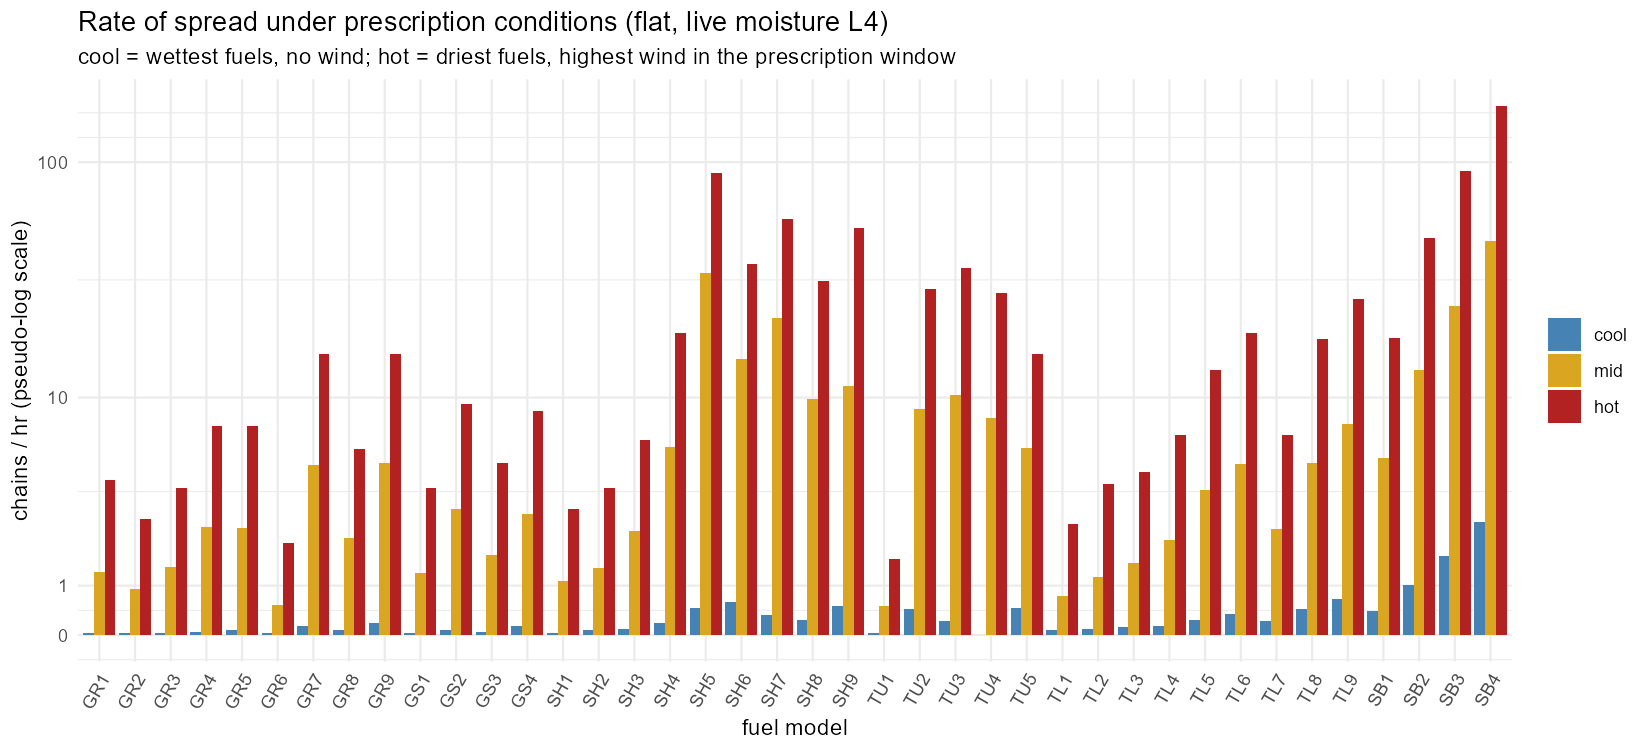
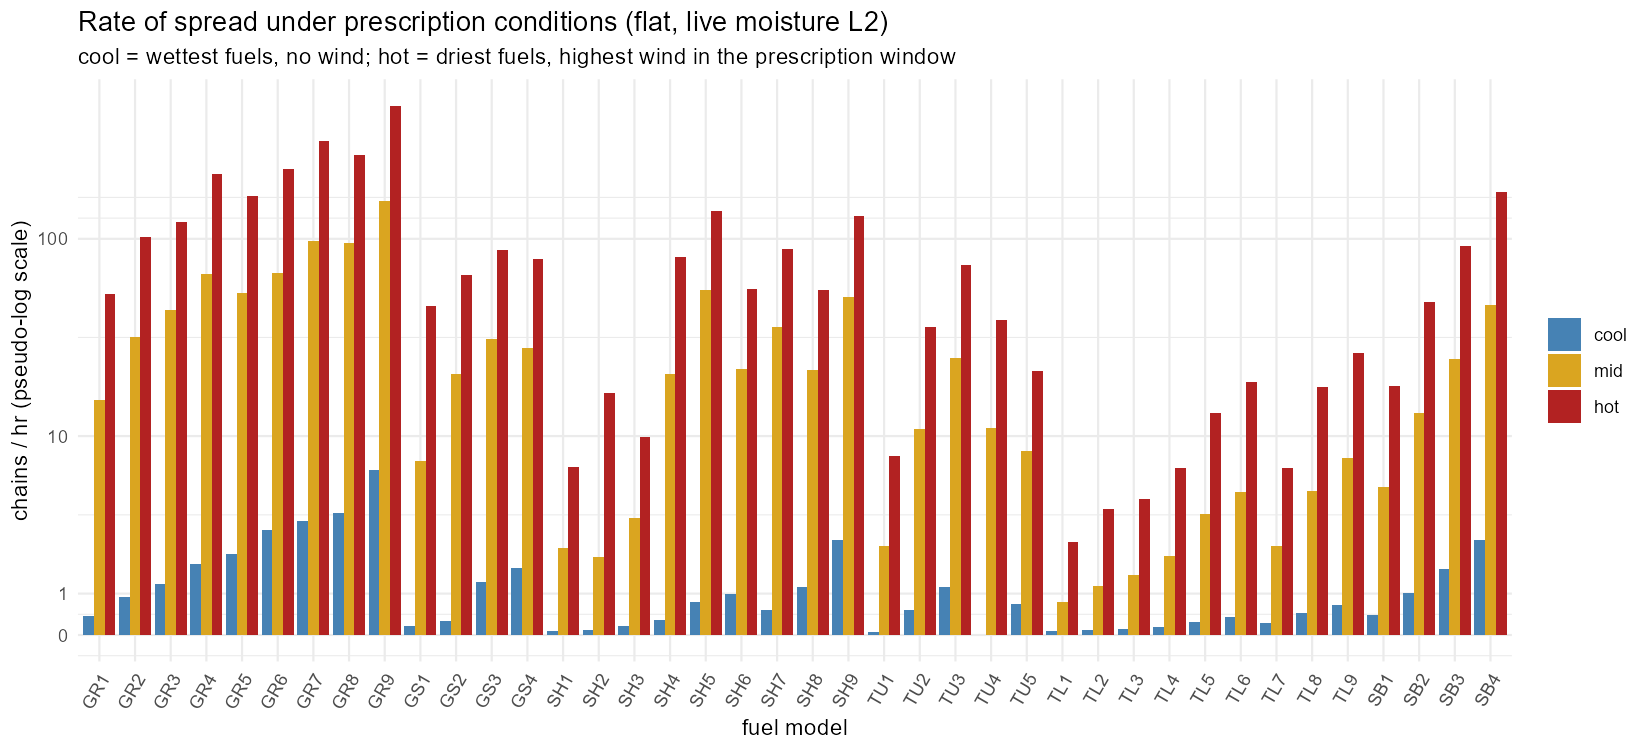
feat(validation): add burn season comparison against observed TWIGS data
- Add validation module comparing modeled burn days to observed Forest Service burns
- Implement fig_burn_season() visualization showing monthly distribution mismatch
- Generate comparison tables by month and season for burn-day model vs TWIGS data
- Create comprehensive test suite for validation functions (12 new tests)
- Update pipeline to generate burn season modeled vs observed figure and tables
- Document known timing discrepancy: model concentrates 37% of burn days in monsoon (Jul-Sep) and 34% in winter (Dec-Mar), but 84% of observed NM burns occur in spring/fall (Apr-Jun, Oct-Nov)
- Add section "Known discrepancies between modelled and observed burning" to README
- Update test count from 292 to 304 expectations
- Update project status date to 2026-11-05

diff --git a/README.md b/README.md
@@ -1,12 +1,12 @@
 # WUS_RxResourceNeeds
 Modeling the resources (personnel, quals, and equipment) needed to restore low-intensity wildfire regimes in the western United States.
 
-> **Status (2026-10-29):** the Burn Day Model, target area, and annual Rx target (AFN/BFN) are implemented and have been run for New Mexico, 1979–2025. The unit size/complexity, firing method, line production, resource mix, and state rollup stages are **wired-in stubs with placeholder parameters**: they run end to end but their numbers are not estimates. See the [status table](#status). [`spatialanalysis_pseudocode.md`](spatialanalysis_pseudocode.md) is the statement of project intent.
+> **Status (2026-11-05):** the Burn Day Model, target area, and annual Rx target (AFN/BFN) are implemented and have been run for New Mexico, 1979–2025. The unit size/complexity, firing method, line production, resource mix, and state rollup stages are **wired-in stubs with placeholder parameters**: they run end to end but their numbers are not estimates. See the [status table](#status). [`spatialanalysis_pseudocode.md`](spatialanalysis_pseudocode.md) is the statement of project intent.
 
 ## To do
 
 **Review modeling decisions**
-- [ ] **Choose the live fuel moisture scenario for rate of spread** (`fire_behavior.live_default`, currently L4 = green herbaceous, 120%/150%). It changes the hot-end area-weighted rate of spread about eight-fold (L1 cured 79, L2 54, L3 30, L4 10 chains/hr), because 55% of treatable area is in grass or grass-shrub fuel models. Spring and fall Rx windows in NM dry forest usually have cured herbaceous fuels (L1/L2); monsoon-season windows are green (L4). A season-dependent choice (cured outside the monsoon) is possible using burn-day timing.
+- [x] Live fuel moisture for rate of spread set to **L2** (herbaceous two-thirds cured: 60% herbaceous, 90% woody; `fire_behavior.live_default`). Rationale and sensitivity: [Why L2 live fuel moisture](#why-l2-live-fuel-moisture). Optional refinement: a season-dependent choice (L1 Nov-Mar, L2 Apr-Jun and Oct, L4 Jul-Sep).
 - [x] Replace EVT name patterns with reviewed BPS/EVT crosswalks (`config/treatable_bps.csv`, `config/treatable_evt_phys.csv`).
 - [x] Spot-check the 13 treatable BPS classes and the excluded forest classes in `config/treatable_bps.csv` (e.g. aspen and mesic mixed conifer, whose FRG varies by map zone).
 - [x] Use Swain ST1 Forest Plans thresholds for now (`thresholds.plan_set: forest`). Possible later refinements: sensitivity runs with `all`/`nonforest`, vegetation-dependent thresholds (forest bounds on tree pixels, non-forest on current shrub/grass), or NM-only medians from Swain's burn-plan repository.
@@ -44,7 +44,8 @@ To do:
 - [ ] Better NFDRS state-of-weather adjustment than the srad approximation.
 
 **Open questions from the pseudocode**
-- [ ] Validate predicted burn windows against observed Rx burns (WildCAD, etc.).
+- [ ] **Timing mismatch between modelled burn days and observed burns (logged, unresolved).** The burn-day model puts 37% of burn days in Jul-Sep and 34% in Dec-Mar, but 84% of actual Forest Service burned acres in NM fall in Apr-Jun and Oct-Nov (TWIGS). See [Known discrepancies](#known-discrepancies-between-modelled-and-observed-burning). To investigate: whether a monsoon/green-up screen, a snow or fuel-condition screen, or other constraints should be added to the burn-day definition; and whether observed timing mainly reflects staffing and smoke management.
+- [ ] Validate predicted burn windows against other observed Rx burns (WildCAD, burn plans), beyond the TWIGS seasonality comparison.
 - [ ] Investigate whether managed wildfire (wildfire managed for resource objectives, e.g. Gila and Aldo Leopold wilderness) competes with planned Rx for the same people and equipment. Questions: does managed-wildfire season overlap the burn windows predicted here; how many resources does it tie up; and how much of the dry-forest fire need (including the ~284k treatable ac in wilderness excluded from this planned-Rx estimate) does it meet?
 - [ ] Extend from the NM pilot to the western US.
 
@@ -79,7 +80,7 @@ Requires R ≥ 4.3 (built with R 4.6.1 on Windows) and internet access for first
 1. Restore packages: `renv::restore()`
 2. LANDFIRE's LFPS v2 API requires an email. Add it to your user `.Renviron`: `LANDFIRE_EMAIL=you@example.org`
 3. Build: `targets::tar_make()` (inspect with `targets::tar_visnetwork()`, read results with `targets::tar_read(rx_target)`)
-4. Test: `Rscript tests/run_tests.R` (292 expectations)
+4. Test: `Rscript tests/run_tests.R` (304 expectations)
 
 All settings live in `config/pipeline.yml`. The config is split into per-section targets, so changing `years` doesn't redo the 30 m LANDFIRE processing. First-time downloads can be run in parallel with `Rscript tools/prefetch_landfire.R fuels 1 2` (and `fuels 2 2`, `evt`, `bps`) and `Rscript tools/prefetch_gridmet.R 1979 2025` after `bbox`/`lf_tiles` are built.
 
@@ -192,10 +193,37 @@ In `R/rx_target.R`:
 - **Aspatial first:** Rothermel (1972) surface head fire spread is calculated once per fuel model, scenario, live-moisture scenario and slope (`R/rothermel.R`), giving a small lookup table (40 burnable Scott & Burgan models × 3 scenarios × 4 live scenarios × 6 slopes = 2,880 rows, `results/tables/rate_of_spread_lookup.csv`). It then joins to the 30 m fuel model (FBFM40) and slope maps (`R/fire_behavior.R`).
 - **Engine:** the `Rothermel` R package (Rothermel 1972 with Albini 1976 and Andrews et al. 2013 corrections, Scott & Burgan 2005 fuel models). Flame length comes from Byram (1959) using the package's reaction intensity.
 - **Scenarios** come straight from the burn-day thresholds (Forest Plans): *cool* = wettest dead fuels (1-hr 12%, 10-hr 14%, 100-hr 15%) and no wind; *hot* = driest fuels (4%, 6%, 7.5%) and the wind cap (4.5 m/s mid-flame, 16.2 km/h); *mid* = midpoints.
-- **Live moisture** is a separate choice (`fire_behavior.live_scenarios`, Scott & Burgan L1 cured to L4 green) and is the dominant uncertainty; see the to-do list and limitations.
+- **Live moisture** is a separate choice (`fire_behavior.live_scenarios`, Scott & Burgan L1 fully cured to L4 uncured) and is the dominant uncertainty. The default is **L2**; the reasoning and sensitivity are in [Why L2 live fuel moisture](#why-l2-live-fuel-moisture).
 - **Slope:** slope and wind interact in Rothermel (slope adds to the wind term), so slope is not a separable multiplier. The lookup is therefore built at slope bins of 0–25% (the treatable area is limited to ≤ 25%) and interpolated linearly per pixel.
 - **Validation:** against the SW Coordination Center reference tables for Anderson fuel model 1, rate of spread agrees within about 4–5% (flat and 30% slope) wherever the traditional wind limit does not bind, and flame length within about 3% (tests in `tests/testthat/test-rothermel.R`). Where that older limit binds, the package gives higher rates because it applies the Andrews et al. (2013) wind limit.
 - **Outputs:** `data/processed/fire_behavior/rx_fire_behavior_30m.tif` (layers `ros_cool`, `ros_hot` in chains/hr and `fl_cool`, `fl_hot` in feet, treatable cells only) and, per treatable patch, the area-weighted means, modal fuel model, and acres by flame length class (0–4, 4–8, > 8 ft).
+### Why L2 live fuel moisture
+The Rothermel rate of spread for grass, grass-shrub and shrub fuel models depends strongly on how much of the herbaceous fuel is cured, which Scott & Burgan (2005) express as four live moisture scenarios. This matters here because grass or grass-shrub models are the dominant fuel model for about 55% of treatable area (by patch: GR2 28%, GS2 20%, GR1 5%, GS1 2%). The default is L2. The evidence behind that choice, and its limits:
+
+| Scenario | Herbaceous moisture | Woody moisture | Meaning |
+|---|---|---|---|
+| L1 | 30% | 60% | herbaceous fully cured (dead) |
+| **L2** | **60%** | **90%** | **two-thirds cured** |
+| L3 | 90% | 120% | one-third cured |
+| L4 | 120% | 150% | uncured, green |
+
+(Values from Scott & Burgan 2005, as reproduced in the [IFTDSS fuel moisture tables](https://iftdss.firenet.gov/firenetHelp/help/pageHelp/content/00-concepts/fuelmoisturetables.htm).)
+
+1. **No published convention.** A search of NWCG guidance (PMS 437), the IFTDSS tables and the Scott & Burgan report found no rule naming L1 or L2 as the standard for prescribed fire modeling. The NWCG guide notes only that herbaceous moisture below 120% signals load transfer from live to dead fuel. The closest published analogue found (a 2019 Fire Ecology study of prescribed fire weather windows in the northern Great Plains, which paired prescription windows with the Rothermel model) varied live herbaceous to dead fine fuel ratios by season rather than fixing one scenario. Its full text could not be accessed, so the specific values it used are not known.
+2. **Observed timing of New Mexico burning.** Completed Forest Service broadcast burns in NM from the TWIGS Treatment Index (951 burns, 758,000 acres, 1990-2026) are concentrated in two seasons: April-June holds 50% of burned acres and October-November 34%; December-March holds 10% and July-September (monsoon) only 6%. Burning therefore happens mostly when herbaceous fuels are partly to mostly cured, not green.
+3. **Season-to-scenario reasoning (an assumption, not a cited NM source).** Spring burn windows come with last year's dormant growth plus some green-up, which fits partial curing (L2). Fall windows come after the growing season, which fits mostly cured fuels (L1 to L2). Winter windows fit fully cured fuels (L1). Only the monsoon, with 6% of burned acres, fits green fuels (L4). Weighting these by observed burned acres makes L2 the single scenario closest to the typical condition.
+4. **Sensitivity.** The scenario changes results a lot, so the choice is not neutral. Acre-weighted by each patch's dominant fuel model on flat ground:
+
+| Live scenario | Hot-end rate of spread (chains/hr) | Hot-end flame length (ft) | Mid-point rate of spread (chains/hr) | Mid-point flame length (ft) |
+|---|---|---|---|---|
+| L1 (cured) | 79 | 9.0 | 24 | 5.1 |
+| **L2 (default)** | **54** | **7.8** | **17** | **4.4** |
+| L3 | 30 | 6.0 | 6 | 2.7 |
+| L4 (green) | 10 | 3.7 | 3 | 2.1 |
+
+Timber litter and slash fuel models have no live fuel and do not change with the scenario. See `results/figures/rate_of_spread_live_moisture_sensitivity.png`.
+
+**Limits of this choice.** L2 is an assumption informed by observed timing and general phenology, not a measured live moisture for New Mexico; it should be checked against local knowledge or field curing observations. TWIGS covers Forest Service broadcast burns only. A single scenario cannot represent the full year, so a season-dependent version (L1 Nov-Mar, L2 Apr-Jun and Oct, L4 Jul-Sep) is listed as a refinement. To change the default, set `fire_behavior.live_default` in `config/pipeline.yml` (about 20 minutes to rerun).
 ### Downstream stubs
 In `R/downstream_stubs.R` and `R/state_rollup.R`, with **placeholder** parameters in `config/downstream_params.yml`:
 - **Unit size:** treatable area is cut into contiguous patches sharing a subfireshed and a landowner class (`R/patches.R`), then each patch's WUI and non-WUI acres are split into equal burn units under the size caps (WUI ≤ 441 ac; non-WUI ≤ `nonwui_split_ac`, default 1,000 ac). This is calibrated against past NM burns from TWIGS. Patch totals are checked against the LANDFIRE per-subfireshed totals. The complexity split is still a placeholder `complexity_share` applied to every size bin.
@@ -221,10 +249,11 @@ The full report is in [`docs/report.md`](docs/report.md).
 | Share of need in WUI | 42% statewide (41% of treatable area); per unit median 34%, IQR 4–72%, ranging 0–100% |
 | Annual need by landowner (PAD-US 4.1) | Federal 51% (USFS 176k, BLM 32k ac/yr), Private 45% (~189k ac/yr), State/Local 4% |
 | Burn units / yr | ~62,000 unit-burns from ~53,000 treatable patches |
-| Treatable fuels | Grass or grass-shrub models cover ~55% of treatable area (GR2 28%, GS2 20%, GR1 5%, GS1 2%); timber-understory TU5 21%, timber litter TL8 14% |
-| Rate of spread, live scenario L4 (area-weighted) | cool 0.3 chains/hr (flames 0.6 ft); hot 10.5 chains/hr (flames 3.4 ft) |
-| Flame length under hot conditions (L4) | 67% of treatable area 0-4 ft, 17% 4-8 ft, 17% > 8 ft; under cool conditions all < 4 ft |
-| Sensitivity of hot-end rate of spread to live moisture | L1 cured 79, L2 54, L3 30, L4 green 10 chains/hr (flames 9, 7.8, 6.0, 3.7 ft) |
+| Treatable fuels | Grass or grass-shrub models are the dominant fuel model for ~55% of treatable area, by patch (GR2 28%, GS2 20%, GR1 5%, GS1 2%); timber-understory TU5 21%, timber litter TL8 14% |
+| Rate of spread, live scenario L2 (area-weighted) | cool 0.8 chains/hr (flames 1.0 ft); hot 53.6 chains/hr (flames 7.5 ft); mid-point about 17 chains/hr (flames about 4.4 ft, by patch modal fuel on flat ground) |
+| Flame length under hot conditions (L2) | 16% of treatable area 0-4 ft, 46% 4-8 ft, 38% > 8 ft; under cool conditions all < 4 ft |
+| Sensitivity of hot-end rate of spread to live moisture | L1 cured 79, L2 54, L3 30, L4 green 10 chains/hr (flames 9, 7.8, 6.0, 3.7 ft); see [Why L2](#why-l2-live-fuel-moisture) |
+| Timing of burn days vs observed burns | mismatch: 37% of modelled burn days in Jul-Sep vs 6% of observed burned acres; 12% in Apr-Jun vs 50%; see [Known discrepancies](#known-discrepancies-between-modelled-and-observed-burning) |
 | Units that can host a 441 ac burn day | 881 (they carry 99.5% of AFN); the rest have < 441 treatable ac and never have a burn day |
 | Mean annual burn days per unit (units with burn days) | median 34 (IQR 25–47), interannual CV median 0.38 |
 | Trend in mean annual burn days | +2.1 days/decade (p = 0.05) |
@@ -242,7 +271,7 @@ Share of treatable-cell days within each threshold (5 sample years): 10-hr FM 37
 | Daily in-Rx | `data/processed/burn_days/inrx_{year}.tif` | INT1U: 1 in Rx, 0 out, 255 = NA |
 | Fuels / WAF | `data/processed/landfire/waf_gridmet.tif`, `fuel_by_gridmet_cell.csv` | waf, modal fbfm40, canopy means, sheltered |
 | Target area | `data/processed/landfire/treatable_30m.tif`, `treatable_frac_gridmet.tif`, `project_landfire_stats.csv`, `treatable_bps_codes.csv`, `treatable_evt_codes.csv` | 30 m mask; fraction per cell; per-unit treatable_ac, afn_ac, heavy_fuel_share, mean_slope_deg, wui_area_share, wui_share |
-| Fire behavior | `data/processed/fire_behavior/rx_fire_behavior_30m.tif`; tables `rate_of_spread_lookup.csv`, `flame_length_class_acres.csv` | 30 m ros_cool, ros_hot (chains/hr), fl_cool, fl_hot (ft); lookup by fuel model, scenario, live scenario, slope |
+| Fire behavior | `data/processed/fire_behavior/rx_fire_behavior_30m.tif`; tables `rate_of_spread_lookup.csv`, `flame_length_class_acres.csv`, `burn_season_modeled_vs_observed_by_month.csv`, `burn_season_modeled_vs_observed_by_season.csv`; figure `burn_season_modeled_vs_observed.png` | 30 m ros_cool, ros_hot (chains/hr), fl_cool, fl_hot (ft); lookup by fuel model, scenario, live scenario, slope |
 | Daily rollup | `data/processed/rx_share_daily.parquet` | project_id, date, rx_share, rx_acres |
 | Synchrony | `data/processed/synchrony_pairs.parquet` | project_a, project_b, jaccard, weekly_cor |
 | Tables | `results/tables/` | annual_burn_days, burn_day_variability, weekly_exceedance, rx_target_afn_bfn, thresholds_applied, and `*_STUB.csv` downstream tables |
@@ -253,7 +282,7 @@ Share of treatable-cell days within each threshold (5 sample years): 10-hr FM 37
 
 | Stage | Status | Notes |
 |---|---|---|
-| Scaffolding (renv, targets, testthat) | Implemented | 292 test expectations |
+| Scaffolding (renv, targets, testthat) | Implemented | 304 test expectations |
 | Swain ST1 thresholds → config | Implemented | verified against extracted ST1 |
 | Study area + subfiresheds | Implemented | |
 | gridMET sourcing | Implemented | OPeNDAP via ncdf4 (climateR not needed) |
@@ -266,10 +295,32 @@ Share of treatable-cell days within each threshold (5 sample years): 10-hr FM 37
 | Full 1979–2025 run | Done | see docs/run_notes.md |
 | Annual Rx target (AFN/BFN) | Implemented | |
 | Unit size + landowner from patches | Implemented | PAD-US 4.1 owners; equal-split units; TWIGS comparison |
-| Rate of spread + flame length (Rothermel) | Implemented | aspatial lookup joined to FBFM40 and slope; validated against published tables; live moisture choice pending |
+| Rate of spread + flame length (Rothermel) | Implemented | aspatial lookup joined to FBFM40 and slope; validated against published tables; live moisture L2 |
+| Modelled vs observed burn timing (TWIGS) | Implemented, **discrepancy logged** | modelled burn days are concentrated in months where little burning happens |
 | Unit complexity, firing, line production, resource mix | **Stub** | placeholder parameters |
 | State rollup + report | **Stub** (logic implemented, inputs placeholder) | docs/report.md (knitr; Quarto not installed) |
 
+## Known discrepancies between modelled and observed burning
+
+**Timing of burn windows (logged 2026-11-05, unresolved).** The modelled burn days do not match when New Mexico Forest Service burns actually happened. Modelled burn days are unit burn days (at least 441 treatable acres in prescription) weighted by each unit's annual need. Observed values are completed TWIGS broadcast burns (951 burns, 758,000 acres, 1990-2026), by burned acres.
+
+| Season | Modelled share of burn days | Observed share of burned acres | Observed share of burns (count) |
+|---|---|---|---|
+| Dec-Mar | 34% | 10% | 11% |
+| Apr-Jun | 12% | 50% | 30% |
+| Jul-Sep (monsoon) | 37% | 6% | 31% |
+| Oct-Nov | 17% | 34% | 27% |
+
+Month-by-month values: `results/tables/burn_season_modeled_vs_observed_by_month.csv`; figure: `results/figures/burn_season_modeled_vs_observed.png`.
+
+What it means and what it does not:
+- The burn-day definition (Swain et al. ST1 thresholds) is purely weather and fuel moisture. It puts many burn days in the monsoon, when fuel moisture is often in range, and in winter. Actual burning is concentrated in spring and fall.
+- Observed burning also reflects staffing, smoke management, closures, snow and fire-season restrictions, so the observed pattern is not a pure weather-window benchmark. The mismatch is a prompt to look for missing constraints, not proof that the windows are wrong.
+- The count-based shares show a spike of small burns in September (26% of burns but 4% of acres), so acres are the better comparison.
+- Consequence: the modelled timing of statewide resource demand (the weekly demand curve) will be shifted toward summer and winter relative to real burning. Total annual need (acres per year) is not affected, but the timing of demand and the synchrony between units are.
+- Related: because real burning is mostly in cured-fuel seasons, this mismatch is also part of why the live moisture default is L2 and not L4 (see above).
+
+Candidate fixes, none yet applied: a monsoon or green-up screen on the burn-day definition; restricting to observed burn months; weighting burn days by observed seasonal use. This is tracked in the [to-do list](#to-do).
 ## Known limitations
 
 - No bias correction of gridMET against RAWS.
@@ -281,7 +332,9 @@ Share of treatable-cell days within each threshold (5 sample years): 10-hr FM 37
 - WUI uses the broad CWiRRZ definition (anything within 2,400 m of buildings), so it includes much dry forest near scattered structures. WUI is applied to unit sizes only, not yet to unit complexity or patch delineation.
 - The minimum-patch filter uses GDAL sieve (see run notes). Patches crossing LANDFIRE tile seams are handled on the mosaic.
 - Rate of spread is Rothermel surface **head fire** spread. Prescribed fire is usually ignited as backing, flanking or strip head fires, so this measures fire potential and containment demand, not how fast a firing crew lays down fire. It ignores crown fire and spotting, and assumes wind blows upslope.
-- Rate of spread depends strongly on the live moisture scenario (see the to-do). With the default green scenario, grass and grass-shrub fuels spread slowly; cured fuels spread an order of magnitude faster.
+- Rate of spread depends strongly on the live moisture scenario. The default L2 (two-thirds cured) is an assumption supported by observed burn timing and general phenology, not a measured New Mexico value; green fuels (L4) would give rates about five times lower and fully cured fuels (L1) about 1.5 times higher at the hot end (see [Why L2](#why-l2-live-fuel-moisture)).
+- The hot scenario combines the driest fuels and the highest wind in the prescription window at the same time, and with L2 it gives flame lengths over 8 ft on 38% of treatable area. It is a bracket, not a typical condition; the mid-point scenario (about 4.4 ft) is closer to a typical prescription. Check against real prescriptions before using the hot scenario for planning.
+- Modelled burn days are concentrated in different months than real burning (see [Known discrepancies](#known-discrepancies-between-modelled-and-observed-burning)), so the timing of statewide resource demand is not yet realistic.
 - The Rothermel package applies the Andrews et al. (2013) wind limit, so for the fastest fuels at the hot end its rates can exceed BehavePlus results that use the traditional limit.
 - All downstream parameters are placeholders. State need figures show only that the pipeline works.
 
@@ -301,5 +354,8 @@ Share of treatable-cell days within each threshold (5 sample years): 10-hr FM 37
 | Scott & Burgan 2005, RMRS-GTR-153 (fuel bed depths) | https://www.fs.usda.gov/research/treesearch/9521 |
 | Rothermel 1972, INT-115 (surface fire spread), via the `Rothermel` R package (Vacchiano & Ascoli) | https://doi.org/10.2737/INT-RP-115 |
 | SW Coordination Center fire behavior reference tables, fuel model 1 (validation) | https://gacc.nifc.gov/swcc/predictive/outlooks/fire_behavior/reference_tables/documents/fm_1.htm |
+| Live fuel moisture scenarios, Scott & Burgan 2005 (as in IFTDSS fuel moisture tables) | https://iftdss.firenet.gov/firenetHelp/help/pageHelp/content/00-concepts/fuelmoisturetables.htm |
+| NWCG Fire Behavior Field Reference Guide, PMS 437 (live fuel moisture) | https://nwcg.gov/publications/pms437/fuel-moisture/live-fuel-moisture-content |
+| Seasonality of prescribed fire weather windows and predicted fire behavior, northern Great Plains (Fire Ecology 2019; only a search summary was reviewed, full text not accessed) | https://doi.org/10.1186/s42408-019-0027-y |
 | Cohen & Deeming 1985, PSW-GTR-82 (NFDRS) | https://www.fs.usda.gov/research/treesearch/27315 |
 | State boundary (Census cartographic, via `tigris`) | https://www.census.gov/geographies/mapping-files.html |

diff --git a/docs/run_notes.md b/docs/run_notes.md
@@ -43,3 +43,18 @@ Changing `years` in `config/pipeline.yml` does not rerun the 30 m LANDFIRE step 
 
 - `terra::patches()` on the full 30 m mask ran > 30 min on one core without finishing; replaced by `terra::sieve()` + AND with the input (matched patches to 2e-6 of cells on a 19M-cell test window, ~37× faster).
 - LANDFIRE LFPS v2 requires an email (`LANDFIRE_EMAIL` env var).
+
+## Fire behavior and landowner stages (added 2026-11-05)
+
+Timings with downloads cached, single process:
+
+| Stage | Time |
+|---|---|
+| PAD-US 4.1 Fee query (study bbox) | ~30 s |
+| Landowner raster (30 m, full mosaic) | ~25 s |
+| Rothermel lookup (2,880 rows) | ~1 min |
+| 30 m rate of spread / flame length raster | ~3.5 min, ~0.4 GB |
+| Patches with landowner, WUI and fire behavior (~53,000 patches, ~1,140 subfiresheds) | ~13 min |
+| Season comparison against TWIGS | ~12 s |
+
+Changing `fire_behavior.live_default` reruns the lookup, raster, patches and everything downstream, about 20 minutes in total. The `Rothermel` package adds 70 packages to `renv.lock`.

diff --git a/docs/report.md b/docs/report.md
@@ -11,7 +11,7 @@ output: github_document
 
 Years: **1979–2025**. Units: **3157** Fireshed Registry subfiresheds intersecting NM. Thresholds: Swain et al. 2023 ST1, forest plans. Unit burn day: in-prescription treatable area ≥ 441 ac.
 
-Generated 2026-11-05 13:41.
+Generated 2026-11-05 16:41.
 
 ## Thresholds applied
 
